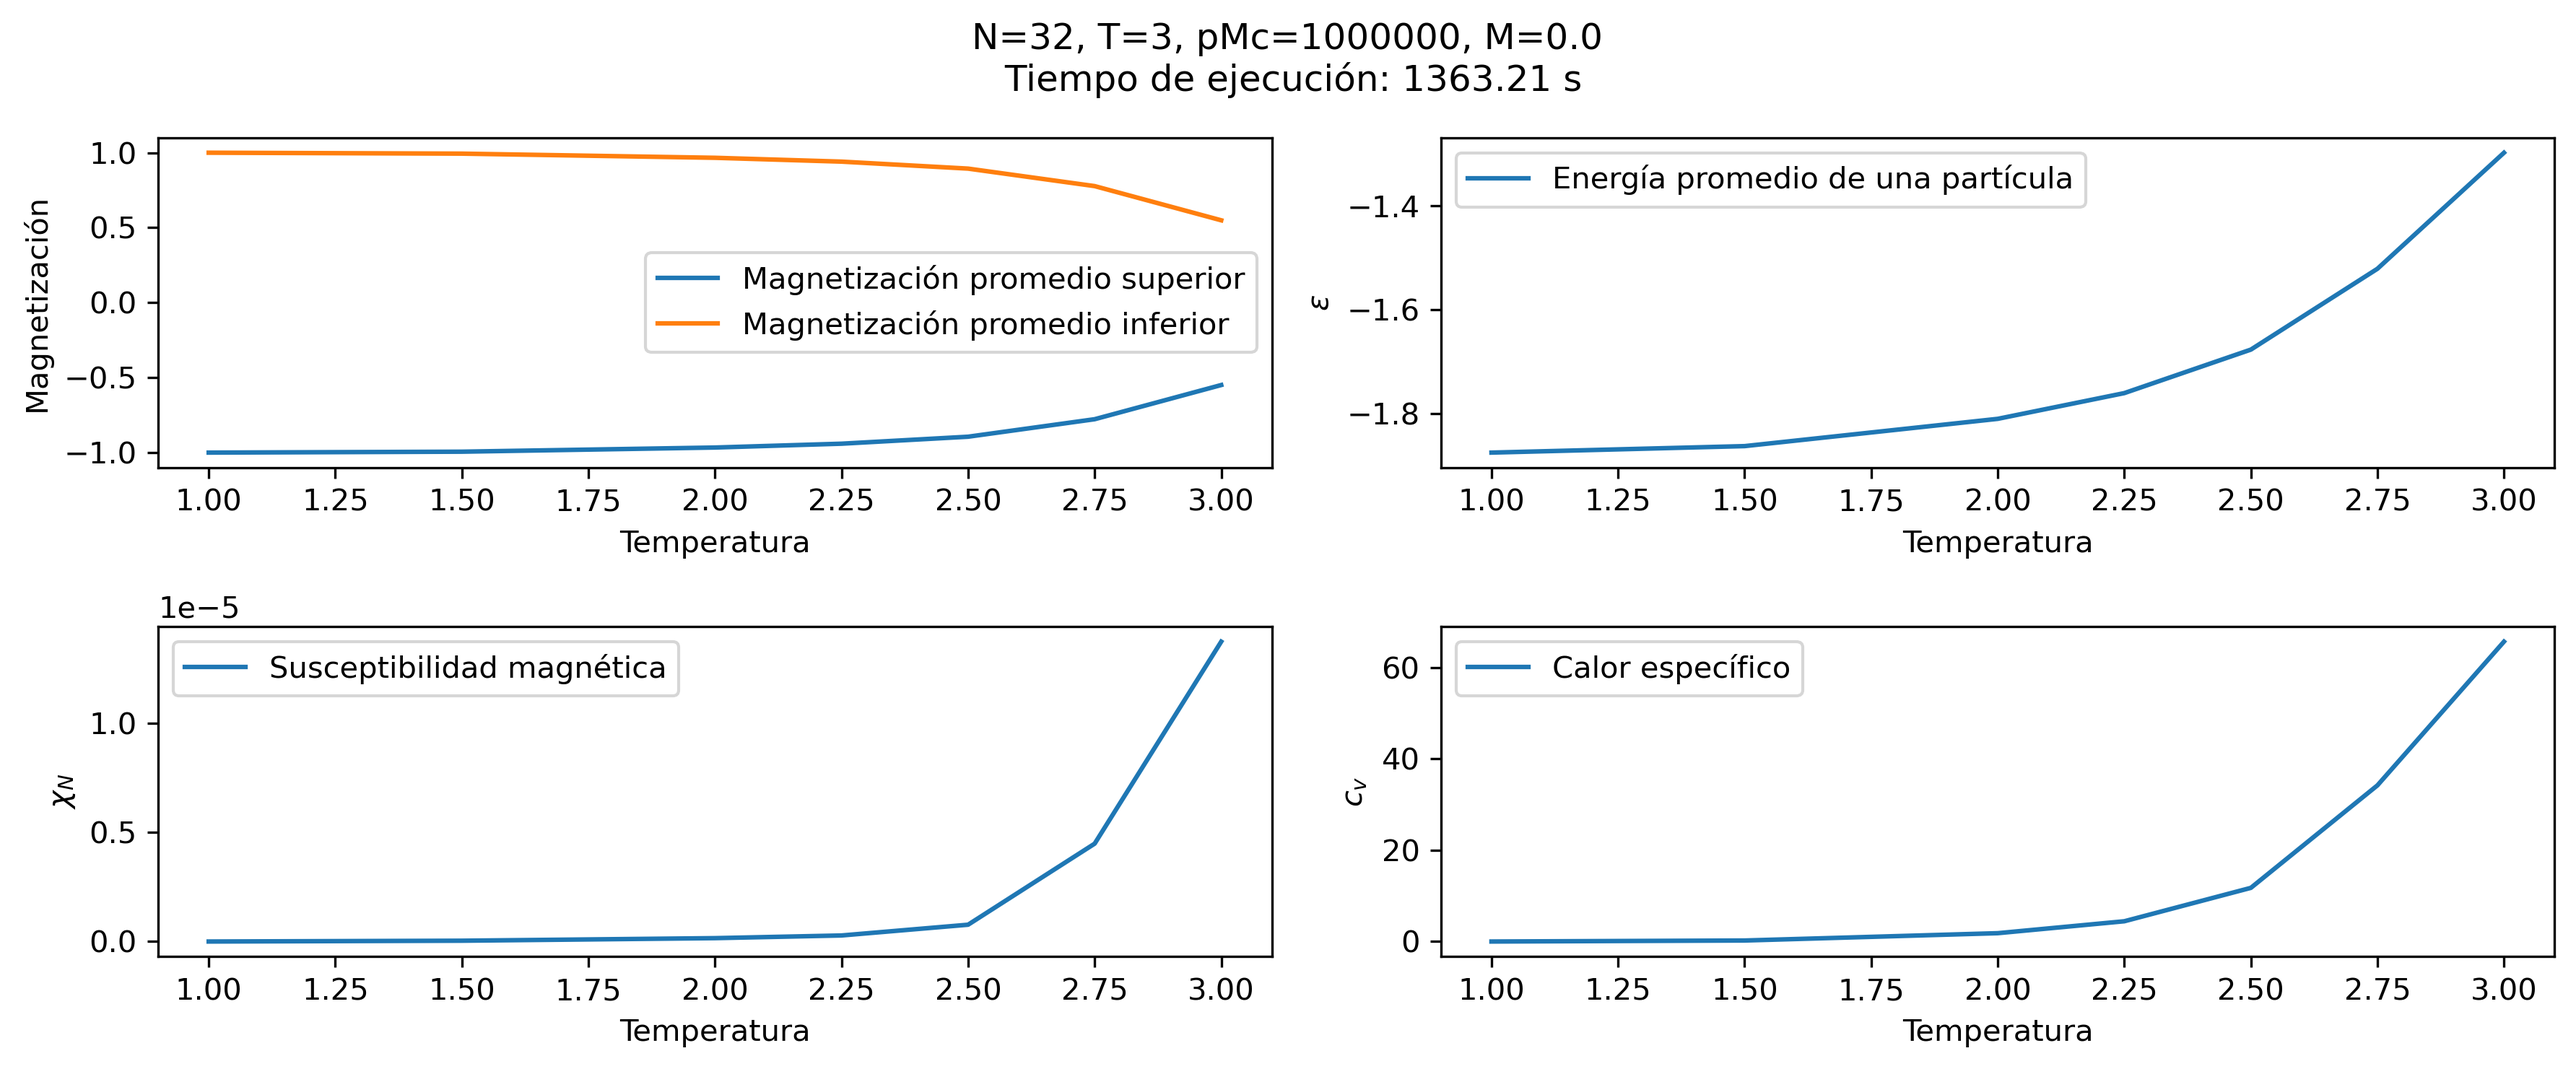
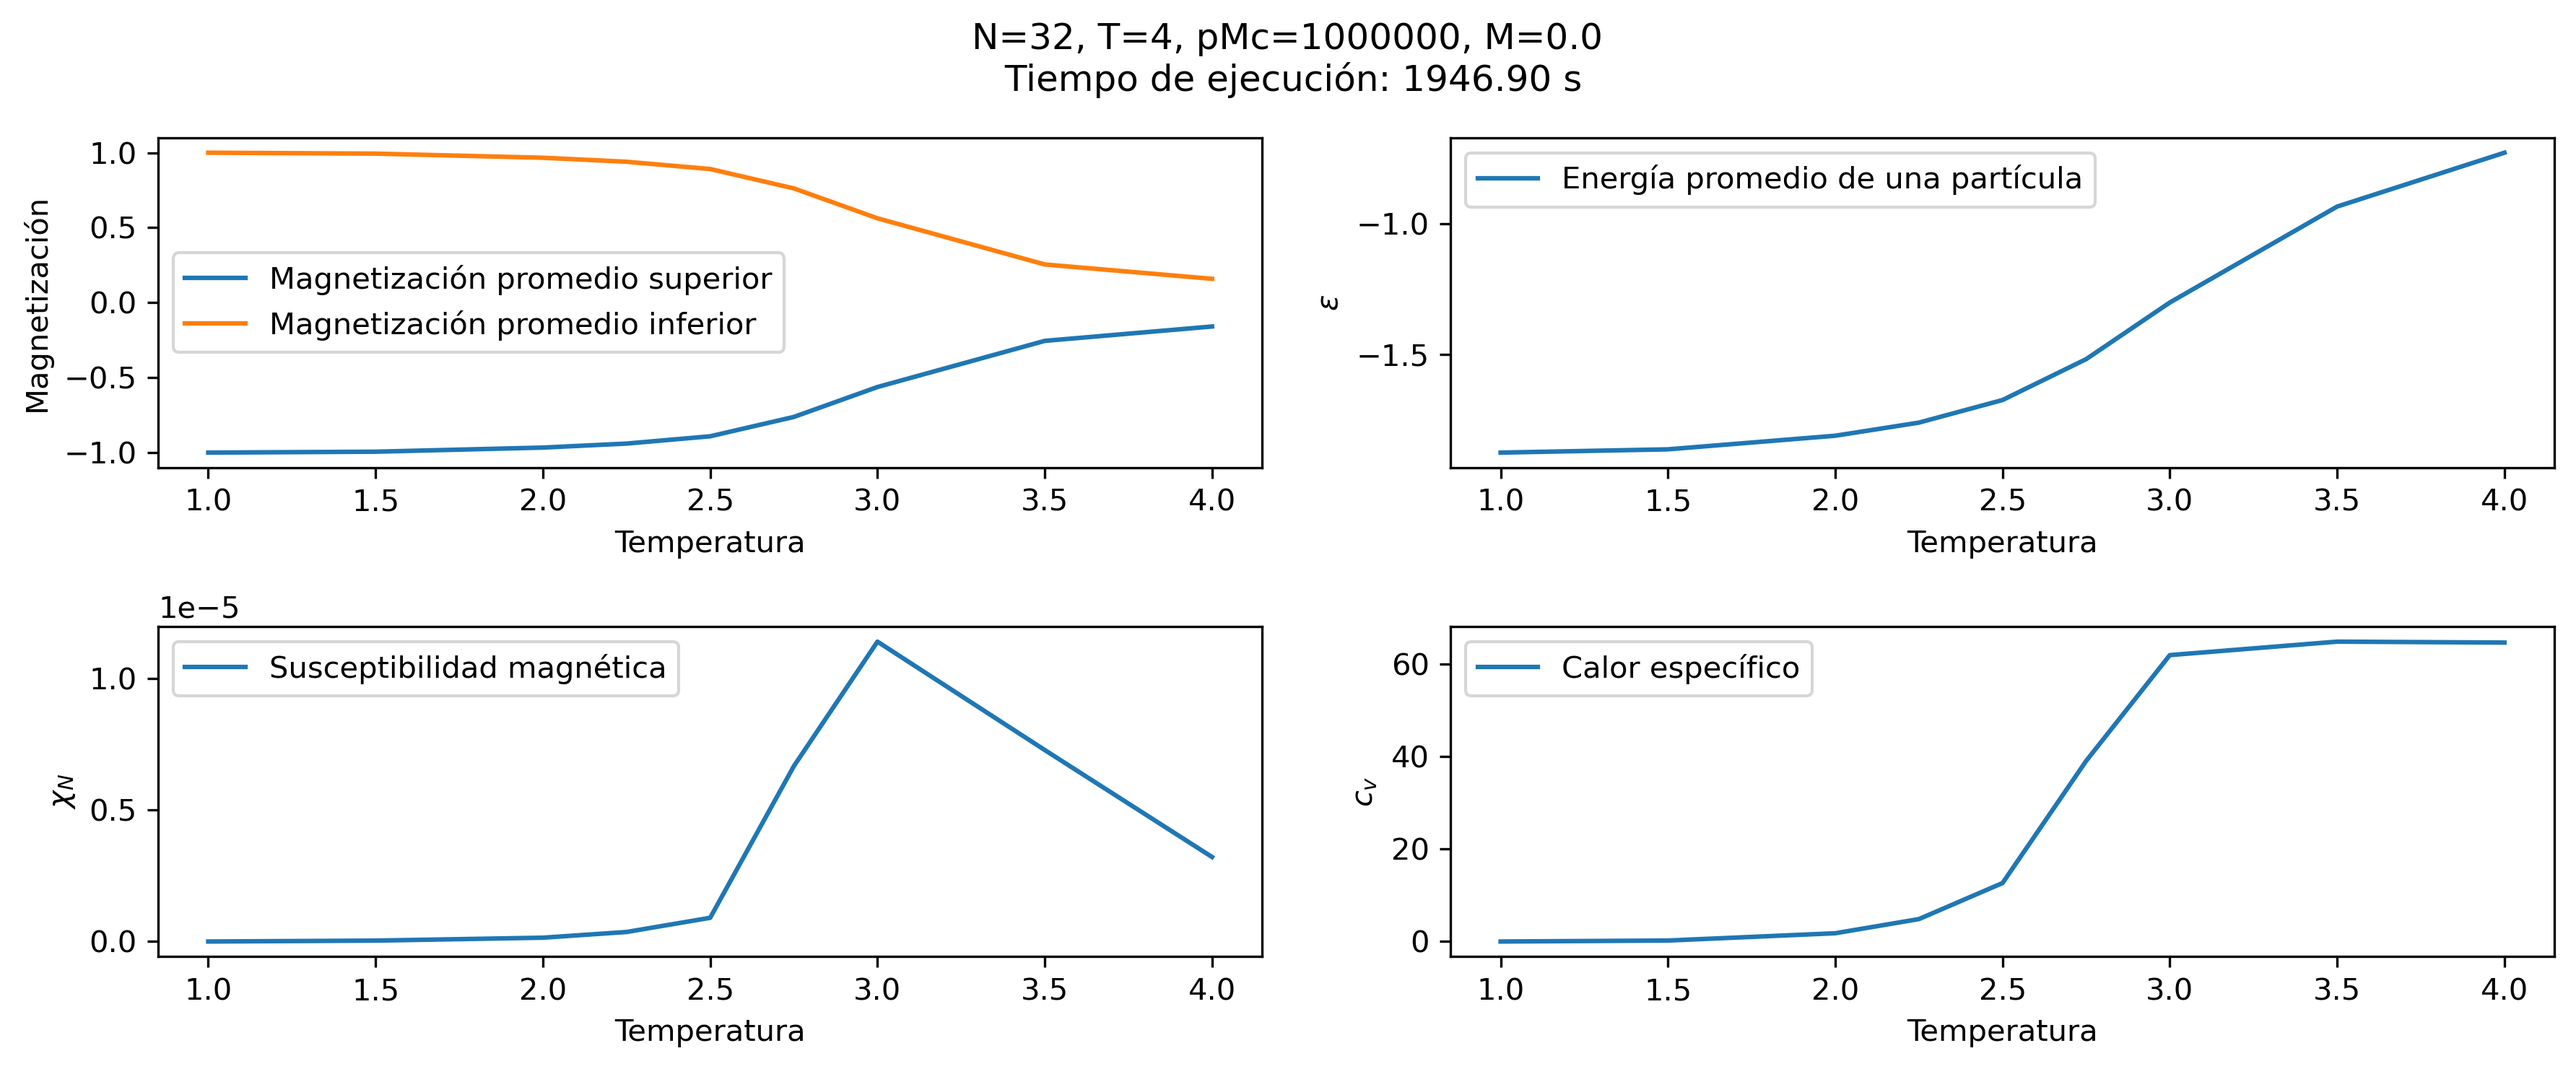
Diferentes temperaturas

diff --git a/VoluntarioKawasaki_diferenteT.py b/VoluntarioKawasaki_diferenteT.py
@@ -15,7 +15,7 @@ filename = "estado_inicial.txt" # Nombre del archivo de entrada, debe contener
                                 #   (...)
                                 #   s(N,1), s(N,2), ..., s(N,N)
                                 
-Temperaturas = [1, 1.5, 2, 2.25, 2.5, 2.75, 3] # Lista de temperaturas a simular
+Temperaturas = [1, 1.5, 2, 2.25, 2.5, 2.75, 3, 3.5, 4] # Lista de temperaturas a simular
 pasos = 10**6  # Número de pasos de Monte Carlo
 Guardar_spines = False  # Guardar el estado de los spines para animar
 pasos_almacenamiento = 100  # Pasos para almacenar el estado de los spines
@@ -162,7 +162,7 @@ def simular_ising(filename, T, pasos, pasos_almacenamiento=100, pasos_promediar=
         for paso in range(pasos):
             # Actualizar el porcentaje completado
             porcentaje = (paso + 1) / pasos * 100
-            print(f"Progreso: {porcentaje:.2f}% completado", end="\r")  # Sobrescribe la línea anterior
+            print(f"Progreso: {porcentaje:.2f}%", end="\r")  # Sobrescribe la línea anterior
 
 
             spines = Kawasaki(spines, beta)

diff --git a/EstadoInicial.py b/EstadoInicial.py
@@ -2,7 +2,7 @@ import numpy as np
 
 #Pramétros
 # ================================================================================
-N=32 # Número de filas
+N=128 # Número de filas
 M=0 # Magnetización promedio
 Random=False # True: espines aleatorios, False: espines ordenados
 # ================================================================================
